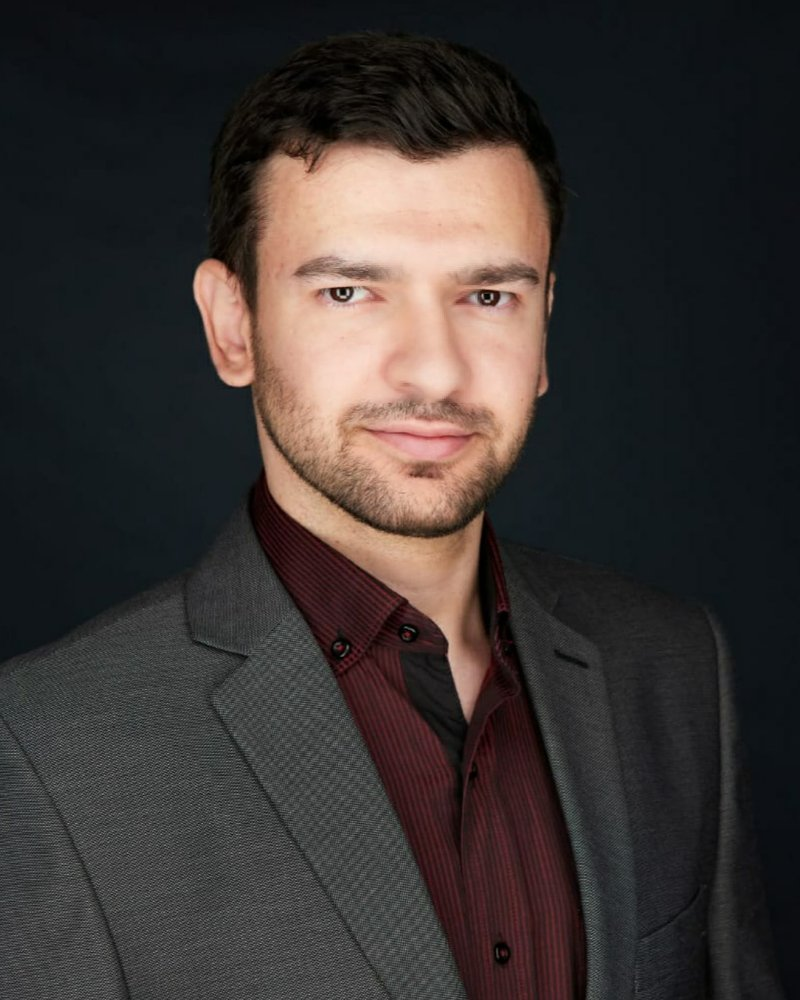
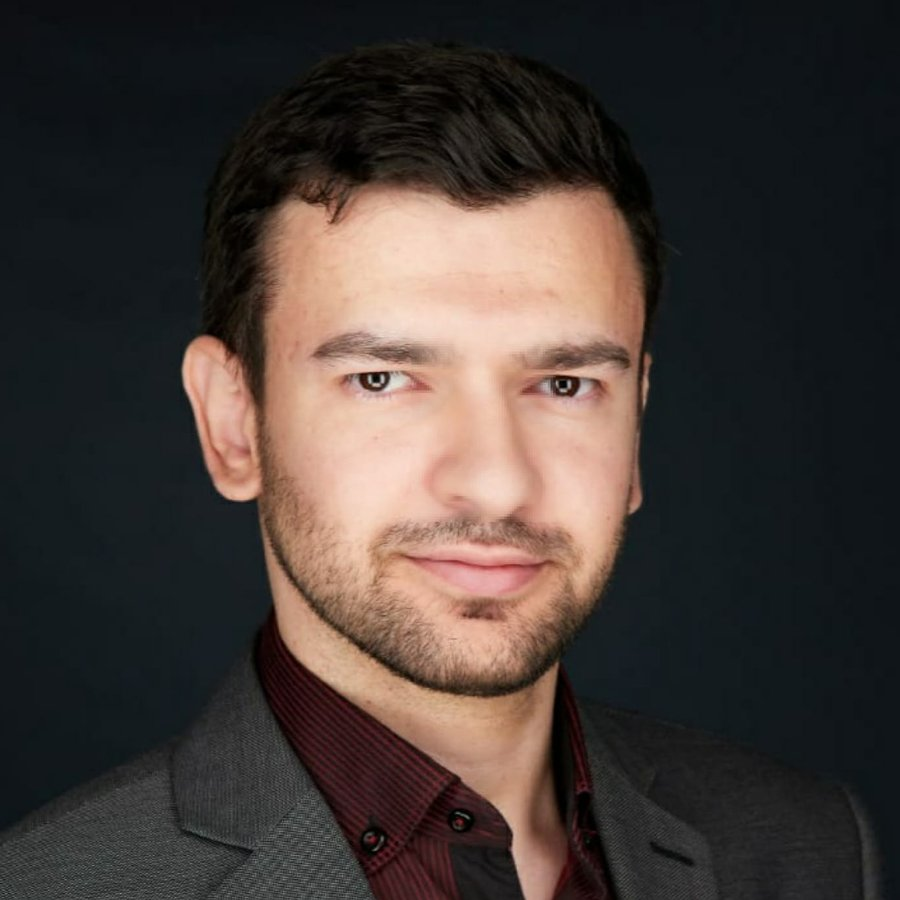
Full-height portrait and paper pictures, square bordered frames
- Portrait: re-cropped from the bottom so the face sits mid-frame; it now
  runs from the top of the name to the bottom of the links. Below 800px it
  stays beside the name at 4:5.
- Paper pictures run the full height of the text beside them (never
  shorter than 16:9).
- All pictures get a visible 2px border and square corners.

diff --git a/assets/css/style.css b/assets/css/style.css
@@ -41,7 +41,7 @@
   --ink-2: #47515a;
   --ink-3: #59646e;
   --rule: #cfd7de;
-  --frame: #9fabb6;
+  --frame: #59646e;   /* picture borders: shows against both the light page and dark photos */
   --swarm: #4e5a26;   /* camouflage-pillar olive */
   --flap: #c42a26;    /* XFly wing red */
   --accent: var(--ink-3);
@@ -51,7 +51,6 @@
 
   --measure: 58rem;
   --gutter: clamp(1rem, 5vw, 2.5rem);
-  --radius: 6px;
 
   color-scheme: light;
 }
@@ -64,7 +63,7 @@
     --ink-2: #b4bdc5;
     --ink-3: #9aa5ae;
     --rule: #2d353c;
-    --frame: #454f58;
+    --frame: #9aa5ae;
     --swarm: #b8c67c;
     --flap: #ff7a6b;
     color-scheme: dark;
@@ -201,18 +200,20 @@ a:hover { text-decoration-color: currentColor; }
   letter-spacing: -0.025em;
 }
 
+/* The portrait runs from the top of the name to the bottom of the links, cropped to fit. */
 .portrait {
   grid-area: photo;
-  width: clamp(7rem, 22vw, 12.5rem);
+  position: relative;
+  width: clamp(7rem, 26vw, 16rem);
   margin: 0;
 }
 .portrait img {
+  position: absolute;
+  inset: 0;
   width: 100%;
-  height: auto;
-  aspect-ratio: 4 / 5;
+  height: 100%;
   object-fit: cover;
-  border: 1px solid var(--frame);
-  border-radius: var(--radius);
+  border: 2px solid var(--frame);
   background: var(--panel);
 }
 .portrait.is-missing { display: none; }
@@ -277,8 +278,7 @@ a:hover { text-decoration-color: currentColor; }
   margin: 0;
   aspect-ratio: 16 / 9;
   overflow: hidden;
-  border: 1px solid var(--frame);
-  border-radius: var(--radius);
+  border: 2px solid var(--frame);
   background: var(--panel);
 }
 .media video {
@@ -407,12 +407,21 @@ a:hover { text-decoration-color: currentColor; }
 
 .paper {
   --accent: var(--swarm);
+  --media-width: 16rem;
   display: grid;
-  grid-template-columns: 16rem minmax(0, 1fr);
+  grid-template-columns: var(--media-width) minmax(0, 1fr);
   column-gap: 1.5rem;
   align-items: start;
 }
 .paper[data-line="flap"] { --accent: var(--flap); }
+
+/* The frame runs the full height of the text beside it, and is never shorter than 16:9. */
+.paper .media {
+  align-self: stretch;
+  aspect-ratio: auto;
+  min-height: calc(var(--media-width) * 9 / 16);
+}
+.paper .media video { position: absolute; inset: 0; }
 
 .paper-title {
   margin: 0;
@@ -484,7 +493,23 @@ a:hover { text-decoration-color: currentColor; }
 /* ---------- Narrow screens ---------- */
 
 @media (max-width: 880px) {
-  .paper { grid-template-columns: 13rem minmax(0, 1fr); column-gap: 1.25rem; }
+  .paper { --media-width: 13rem; column-gap: 1.25rem; }
+}
+
+/* Too narrow for a full-height portrait: it stays top right, beside the name,
+   and the paragraph and links run full width below. */
+@media (max-width: 800px) {
+  .intro {
+    grid-template-rows: auto;
+    grid-template-areas:
+      "name  photo"
+      "bio   bio"
+      "links links";
+    column-gap: 1.25rem;
+  }
+  .intro h1 { align-self: center; margin: 0; }
+  .portrait { width: 6.5rem; aspect-ratio: 4 / 5; }
+  .bio { margin-top: 1.5rem; }
 }
 
 @media (max-width: 720px) {
@@ -497,23 +522,11 @@ a:hover { text-decoration-color: currentColor; }
   .nav-name { display: none; }
   .nav-links { gap: 1.25rem; font-size: 0.875rem; }
 
-  /* Portrait stays top right, beside the name; paragraph and links run full width below. */
-  .intro {
-    grid-template-rows: auto;
-    grid-template-areas:
-      "name  photo"
-      "bio   bio"
-      "links links";
-    column-gap: 1.25rem;
-  }
-  .intro h1 { align-self: center; margin: 0; }
-  .portrait { width: 6.5rem; }
-  .bio { margin-top: 1.5rem; }
   .links { column-gap: 1.25rem; }
 
   /* Papers: picture above the text; a frame still waiting for its picture is left out. */
   .paper { grid-template-columns: minmax(0, 1fr); }
-  .paper .media { margin-bottom: 0.85rem; }
+  .paper .media { margin-bottom: 0.85rem; aspect-ratio: 16 / 9; min-height: 0; }
   .paper .media.is-empty { display: none; }
 
   .rows li { grid-template-columns: 5.5rem minmax(0, 1fr); }

diff --git a/index.html b/index.html
@@ -75,9 +75,10 @@
   <section class="intro wrap" id="about" aria-label="About">
     <h1>Charbel Toumieh</h1>
 
-    <!-- Portrait, top right: media/portrait.jpg (4:5, 800 × 1000 px). If the file is missing, this slot hides itself. -->
+    <!-- Portrait, top right: media/portrait.jpg, square with the face in the middle. It runs from the top of the name
+         to the bottom of the links and is cropped to fit. If the file is missing, this slot hides itself. -->
     <figure class="portrait" data-portrait>
-      <img src="media/portrait.jpg" alt="Charbel Toumieh" width="800" height="1000">
+      <img src="media/portrait.jpg" alt="Charbel Toumieh" width="900" height="900">
     </figure>
 
     <p class="bio">I develop real-time model predictive control and optimisation for agile aerial robots, from fast, decentralised swarms to bird-scale flapping-wing drones, and I validate it in flight. I am a postdoctoral fellow and scientist at the <a href="https://www.epfl.ch/labs/lis/">Laboratory of Intelligent Systems</a>, EPFL, with Dario Floreano, and principal investigator of an Armasuisse project on vision-based aerial swarms.</p>

diff --git a/README.md b/README.md
@@ -47,7 +47,7 @@ media/posters/NAME.jpg   the picture (for a clip, its first frame)
 media/clips/NAME.mp4     optional: a looping clip that plays over the picture
 ```
 
-Save the files under the names already written in `index.html` and they appear; nothing in the HTML needs to change. A picture can be anything that shows what is inside the paper: a key figure, a photo of the experiment, a frame of the video. Frames are 16:9, and other shapes are centre-cropped to fit.
+Save the files under the names already written in `index.html` and they appear; nothing in the HTML needs to change. A picture can be anything that shows what is inside the paper: a key figure, a photo of the experiment, a frame of the video. The research-area frames are 16:9. A paper's frame runs the full height of the text beside it (and is never shorter than 16:9), so it is usually narrower than 16:9 and the picture's sides are cropped: keep the subject near the middle. Other shapes are centre-cropped to fit.
 
 Until a paper's picture exists, its frame shows the venue (for example "ICRA 2026") on a light grid; on phones, such frames are left out. Without a clip, the picture simply stays still.
 
@@ -98,7 +98,7 @@ assets/fonts/          B612 and STIX Two Text, self-hosted (SIL Open Font Licens
 assets/img/            favicon and social preview card
 media/posters/         pictures, and the first frame of each clip
 media/clips/           looping MP4s
-media/portrait.jpg     your photo (4:5, 800 × 1000 px)
+media/portrait.jpg     your photo (square, face in the middle)
 files/                 your CV (Charbel_Toumieh_CV.pdf)
 tools/make_clip.sh     video or GIF to web clip and picture
 ```
